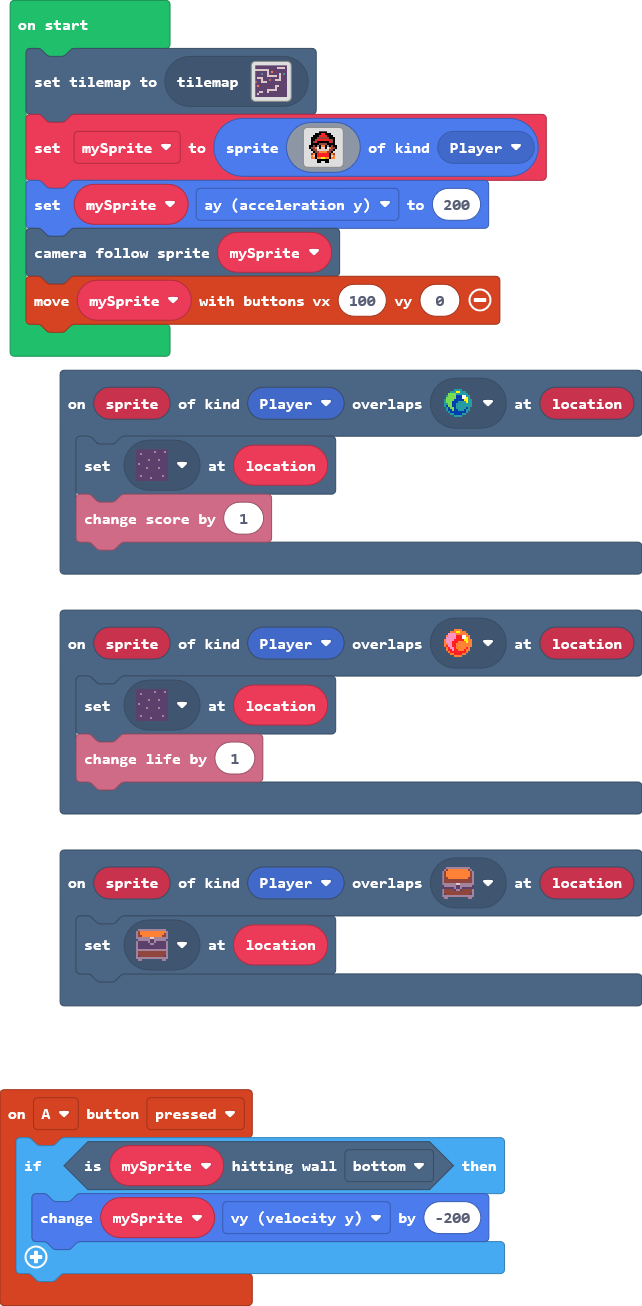
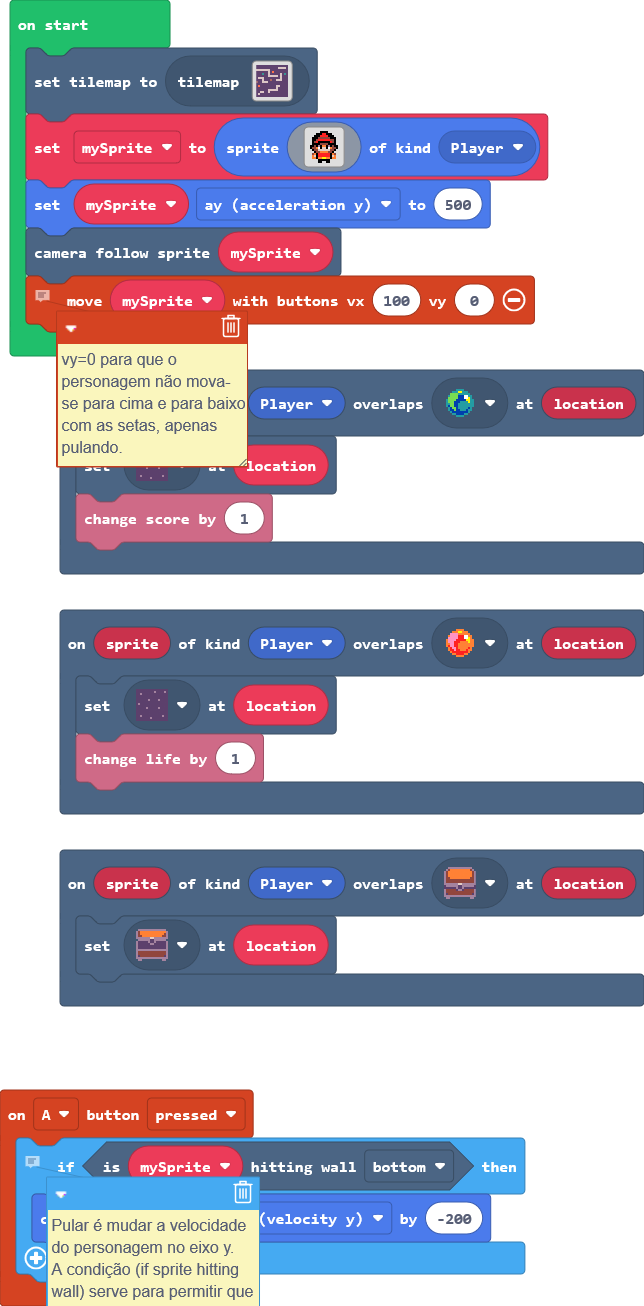
velocidade do pulo e comentários de código

diff --git a/main.ts b/main.ts
@@ -1,4 +1,6 @@
 controller.A.onEvent(ControllerButtonEvent.Pressed, function () {
+    // Pular é mudar a velocidade do personagem no eixo y.
+    // A condição (if sprite hitting wall) serve para permitir que o personagem pule apenas SE ele estiver enconstando em um muro e se a parte dele encostada no muro for a parte de baixo. Ou seja, se o personagem estiver no chão.
     if (mySprite.isHittingTile(CollisionDirection.Bottom)) {
         mySprite.vy += -200
     }
@@ -34,6 +36,7 @@ mySprite = sprites.create(img`
     . . . . . f f f f f f . . . . . 
     . . . . . f f . . f f . . . . . 
     `, SpriteKind.Player)
-mySprite.ay = 200
+mySprite.ay = 500
 scene.cameraFollowSprite(mySprite)
+// vy=0 para que o personagem não mova-se para cima e para baixo com as setas, apenas pulando.
 controller.moveSprite(mySprite, 100, 0)
